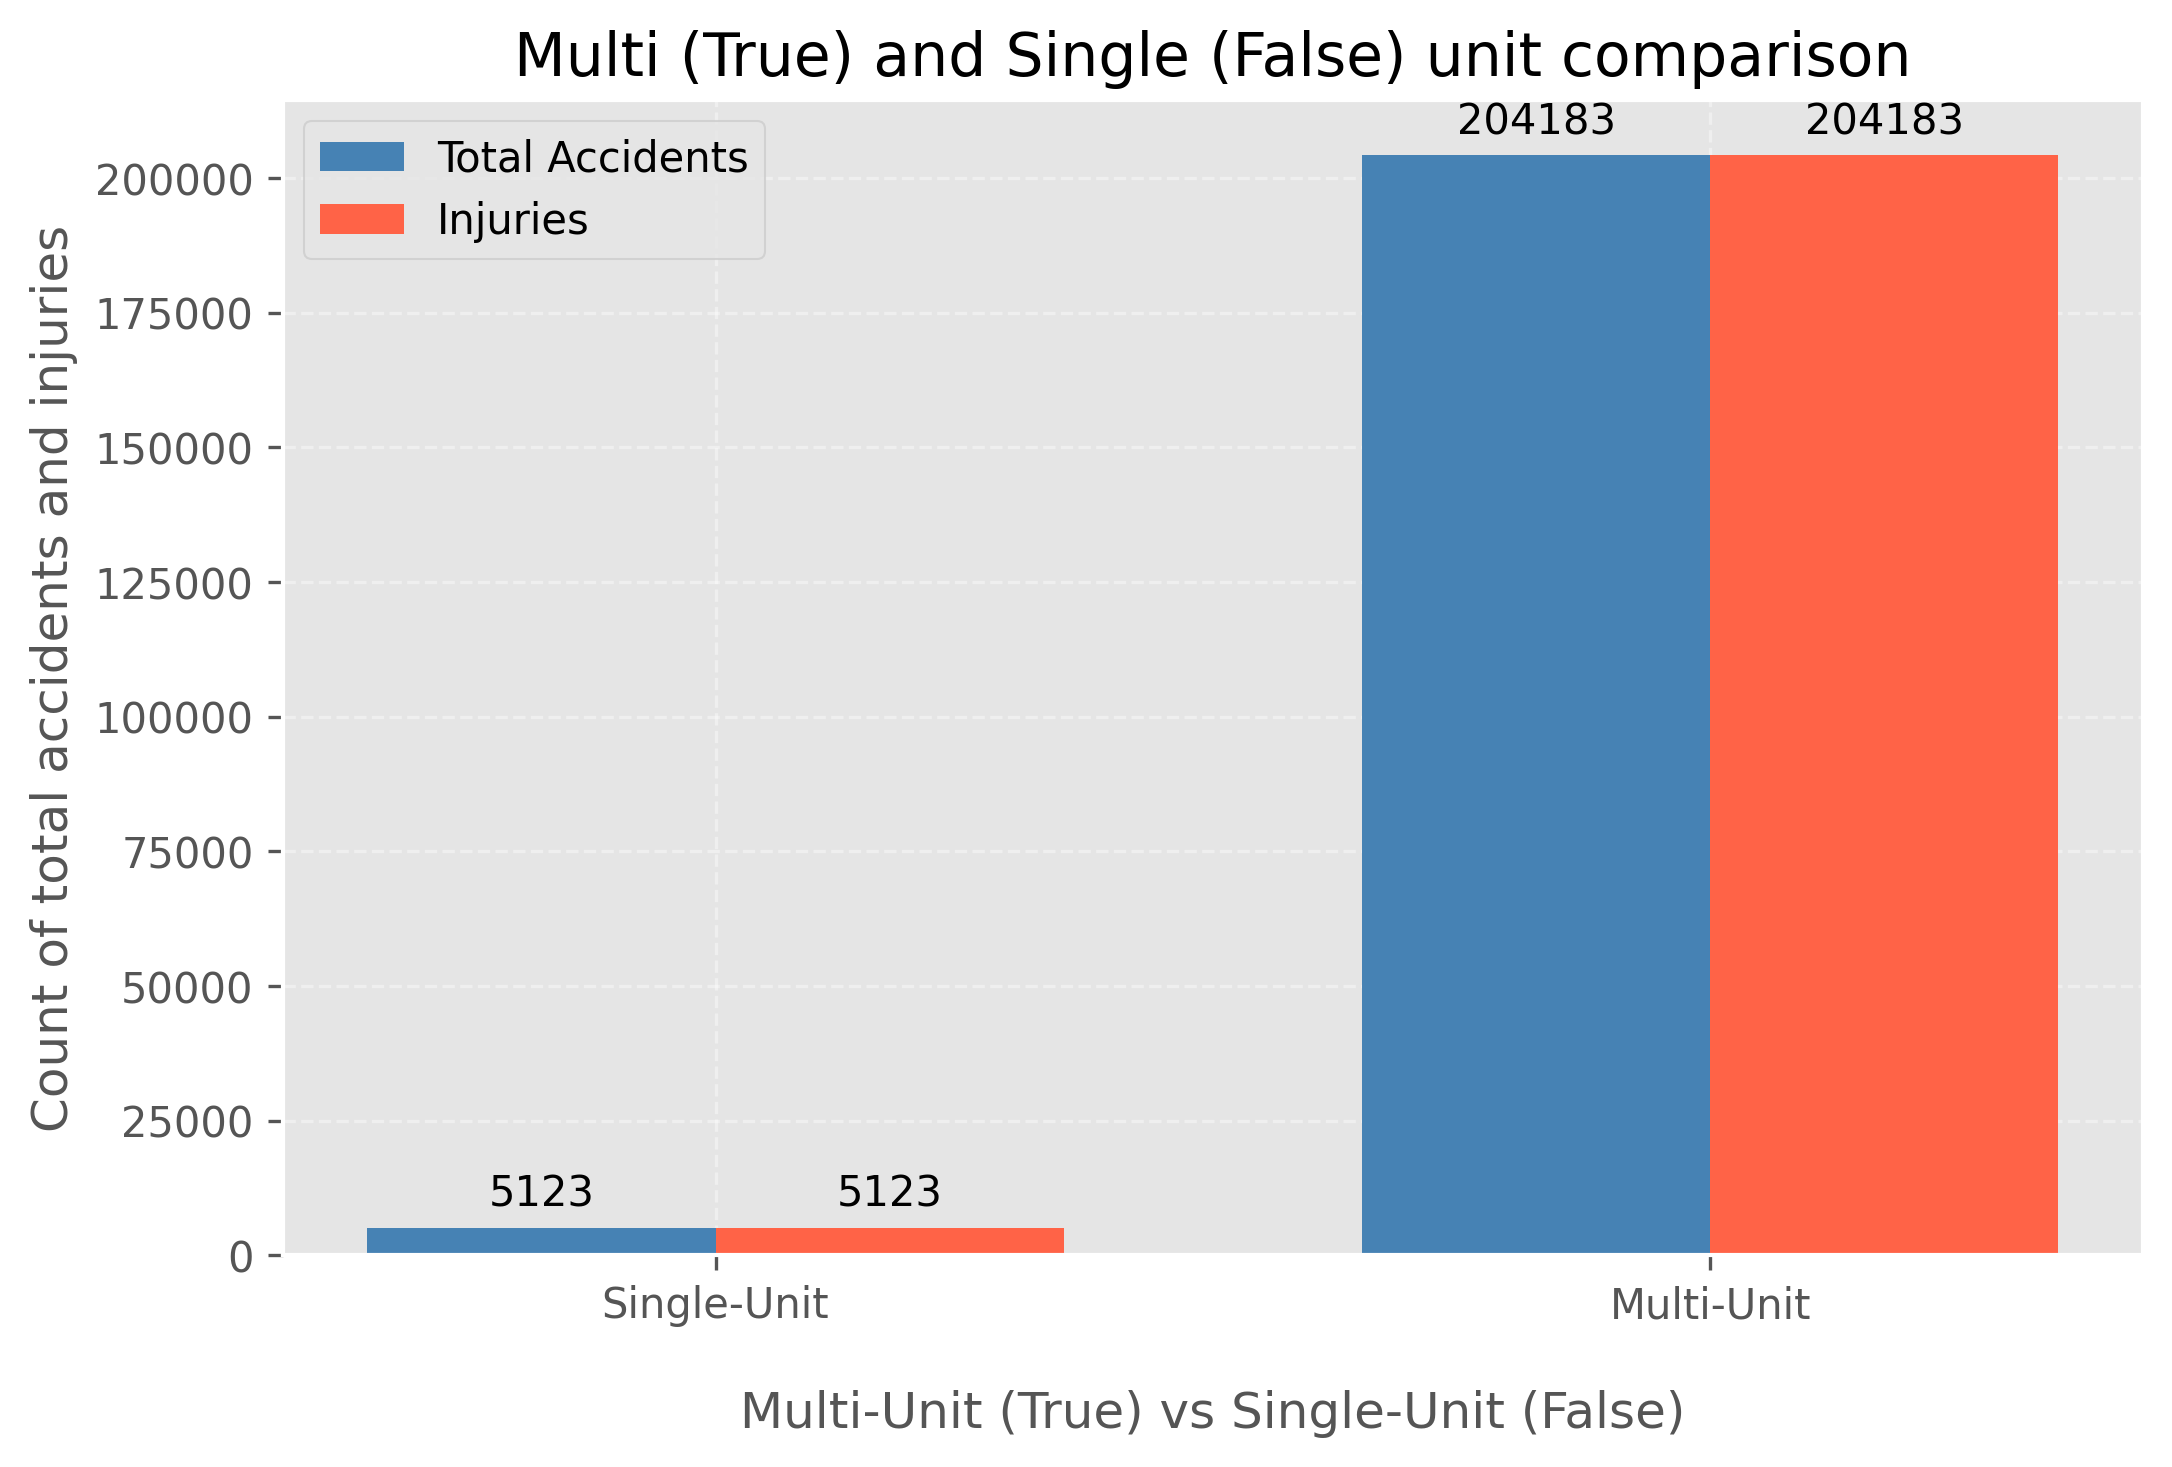
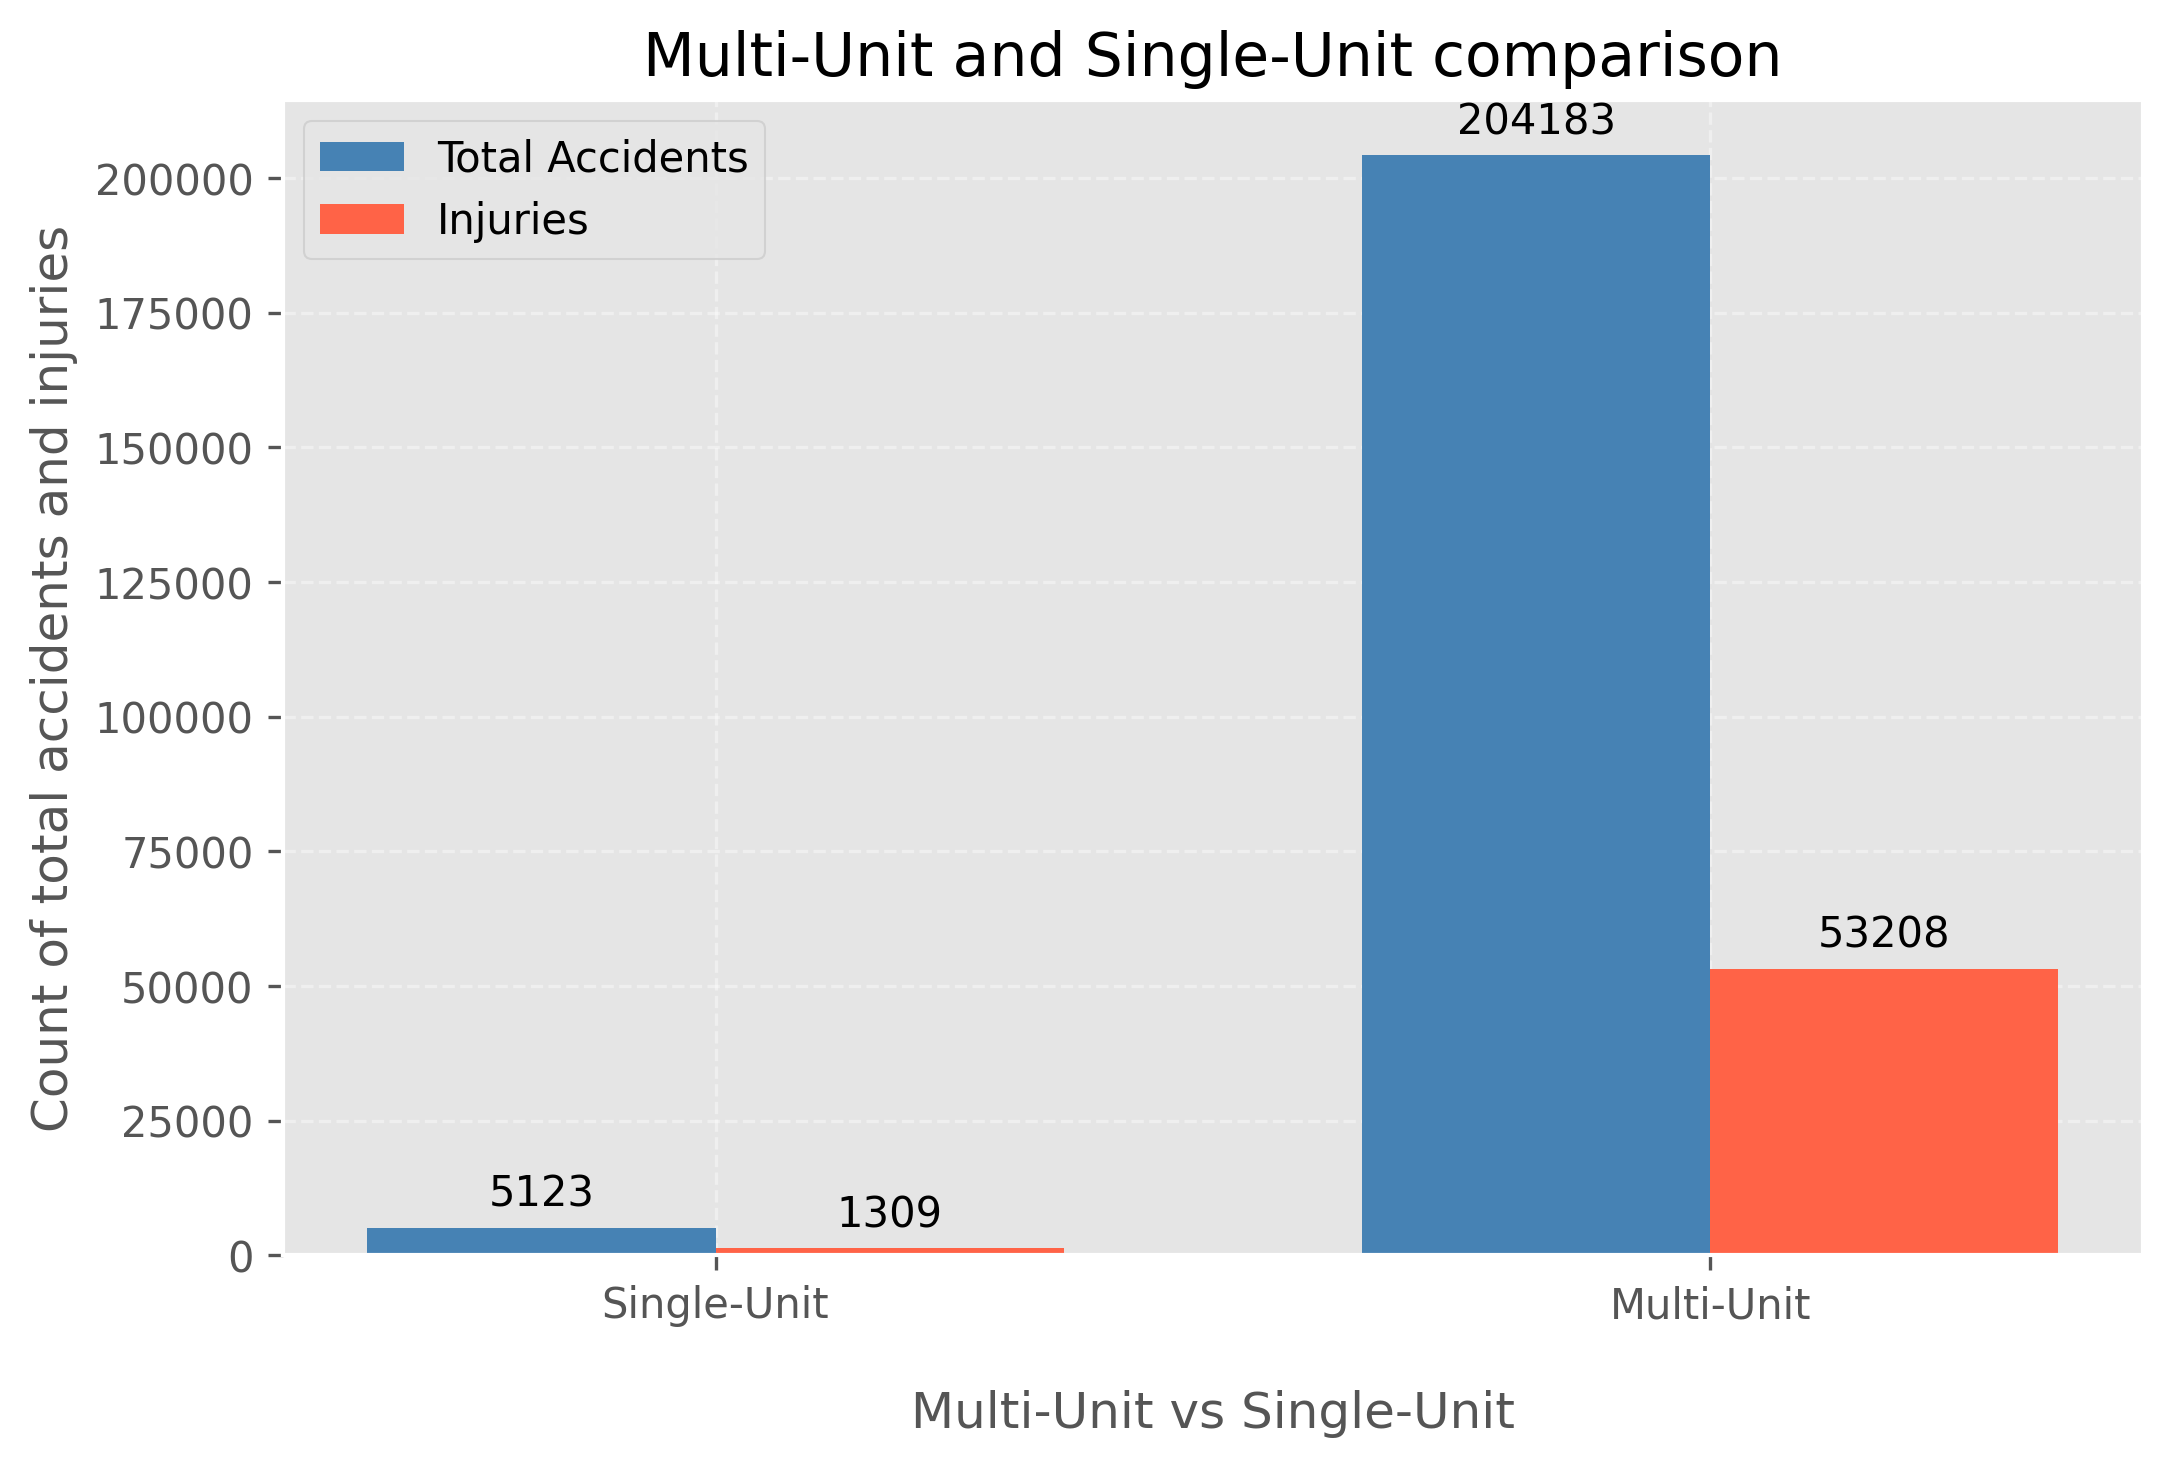
refactor: improve pipeline reproducibility and standardize metrics layer
- removed versioned outputs to enforce clean reproducibility testing
- integrated visualization step into main pipeline execution
- corrected aggregation logic in multi/single unit comparison view
- validated SQL semantic layer and visualization consistency across repeated runs

Changed region(s): [[0.2468, 0.0, 0.9563, 0.6748], [0.3393, 0.9509, 0.7712, 0.9816], [0.3085, 0.7975, 0.4936, 0.8589]]

diff --git a/scripts/pipeline.py b/scripts/pipeline.py
@@ -2,6 +2,8 @@ import pandas as pd
 from sqlalchemy import create_engine
 from sqlalchemy import text
 from datetime import datetime
+#importing the visualization.py functions to create the chart after the pipeline is executed. 
+from visualization import visualization_monthly_trend, visualization_seasonal_trend, visualization_cause_severity, visualization_total_injury_by_day, visualization_damage_level_distribution, visualization_multi_single_unit 
 #to map the datatypes of my database schema to the datatypes of my cleaned dataset, which will ensure that the data is loaded correctly into the database and that the integrity of the data is maintained.
 from sqlalchemy.types import Integer, Boolean, String, Date, DateTime
 
@@ -29,10 +31,9 @@ def transform_data(data):
     #Conversions of date and datatypes of injuries and, day, month, and hour of injuries
     #adding cleaned_data to avoid modifying the original data, just practicing data integrity 
     cleaned_data = data.copy()
-    cleaned_data['crash_date'] = pd.to_datetime(
-    cleaned_data['crash_date'],
-    errors='coerce'
-    )
+    #normalizing the crash_date column by stripping any leading or trailing whitespace and converting it to datetime format, which will ensure that the date is in a consistent format for analysis and visualization.
+    cleaned_data['crash_date'] = cleaned_data['crash_date'].astype(str).str.strip()
+    cleaned_data['crash_date'] = pd.to_datetime(cleaned_data['crash_date'], errors='coerce')
     list_to_int = [
         'injuries_total',
         'injuries_fatal',
@@ -200,7 +201,7 @@ def transform_data(data):
 def load_data(data, database_url, table_name):
     try:
         engine = create_engine(database_url)
-        #truncating the table before loading new data for idempotency of this project.
+        #truncating the table before loading new data for idempotency of this project, making sure that the table is cleared before loading new data.
         with engine.begin() as connection:
             connection.execute(text(f'TRUNCATE TABLE public.{table_name};'))
         dtype={
@@ -289,6 +290,13 @@ def main():
         
     transformed_data.to_csv(f'C:\\Users\\DELL\\Desktop\\Luap\\Data Engineering\\ThirdProject\\Data\\versions\\cleaned_traffic_accidents_{run_id}.csv', index=False)
     # Log basic execution metadata for auditability
+
+    visualization_cause_severity()
+    visualization_damage_level_distribution()
+    visualization_multi_single_unit()
+    visualization_monthly_trend()
+    visualization_seasonal_trend()
+    visualization_total_injury_by_day()
 
     print(f'Run ID: {run_id}')
 

diff --git a/scripts/visualization.py b/scripts/visualization.py
@@ -66,6 +66,7 @@ def visualization_total_injury_by_day():
     ax2=ax.twinx()
     ax2.plot(total_injury_by_day['time_of_day'], total_injury_by_day['average_severity_score'], marker='o', linestyle='-', color='red', zorder=2)
     ax2.set_ylabel('Average Severity Score', color='red', labelpad=15)
+    ax.set_xticks(range(len(total_injury_by_day['time_of_day'])))
     ax.set_xticklabels(['Morning\n6AM-12PM', 'Afternoon\n12PM-6PM', 'Evening\n6PM-12AM', 'Unknown\n12AM-12AM'])
     ax.set_ylabel('Total Accidents with Injuries', color='deepskyblue', labelpad=15)
     ax.set(xlabel = 'Time of Day', title='Total Accidents with Injuries and Average Severity Score by Time of Day')
@@ -130,9 +131,9 @@ def visualization_multi_single_unit():
         ax.bar_label(bar2, padding=3)
         ax.set_xticks(list(x))
         ax.set_xticklabels(labels)
-        ax.set_title('Multi (True) and Single (False) unit comparison')
+        ax.set_title('Multi-Unit and Single-Unit comparison')
         ax.set_ylabel('Count of total accidents and injuries')
-        ax.set_xlabel('Multi-Unit (True) vs Single-Unit (False)', labelpad=15)
+        ax.set_xlabel('Multi-Unit vs Single-Unit', labelpad=15)
         ax.legend()
         ax.set_axisbelow(True)
         ax.grid(True, linestyle='--', alpha=0.4)